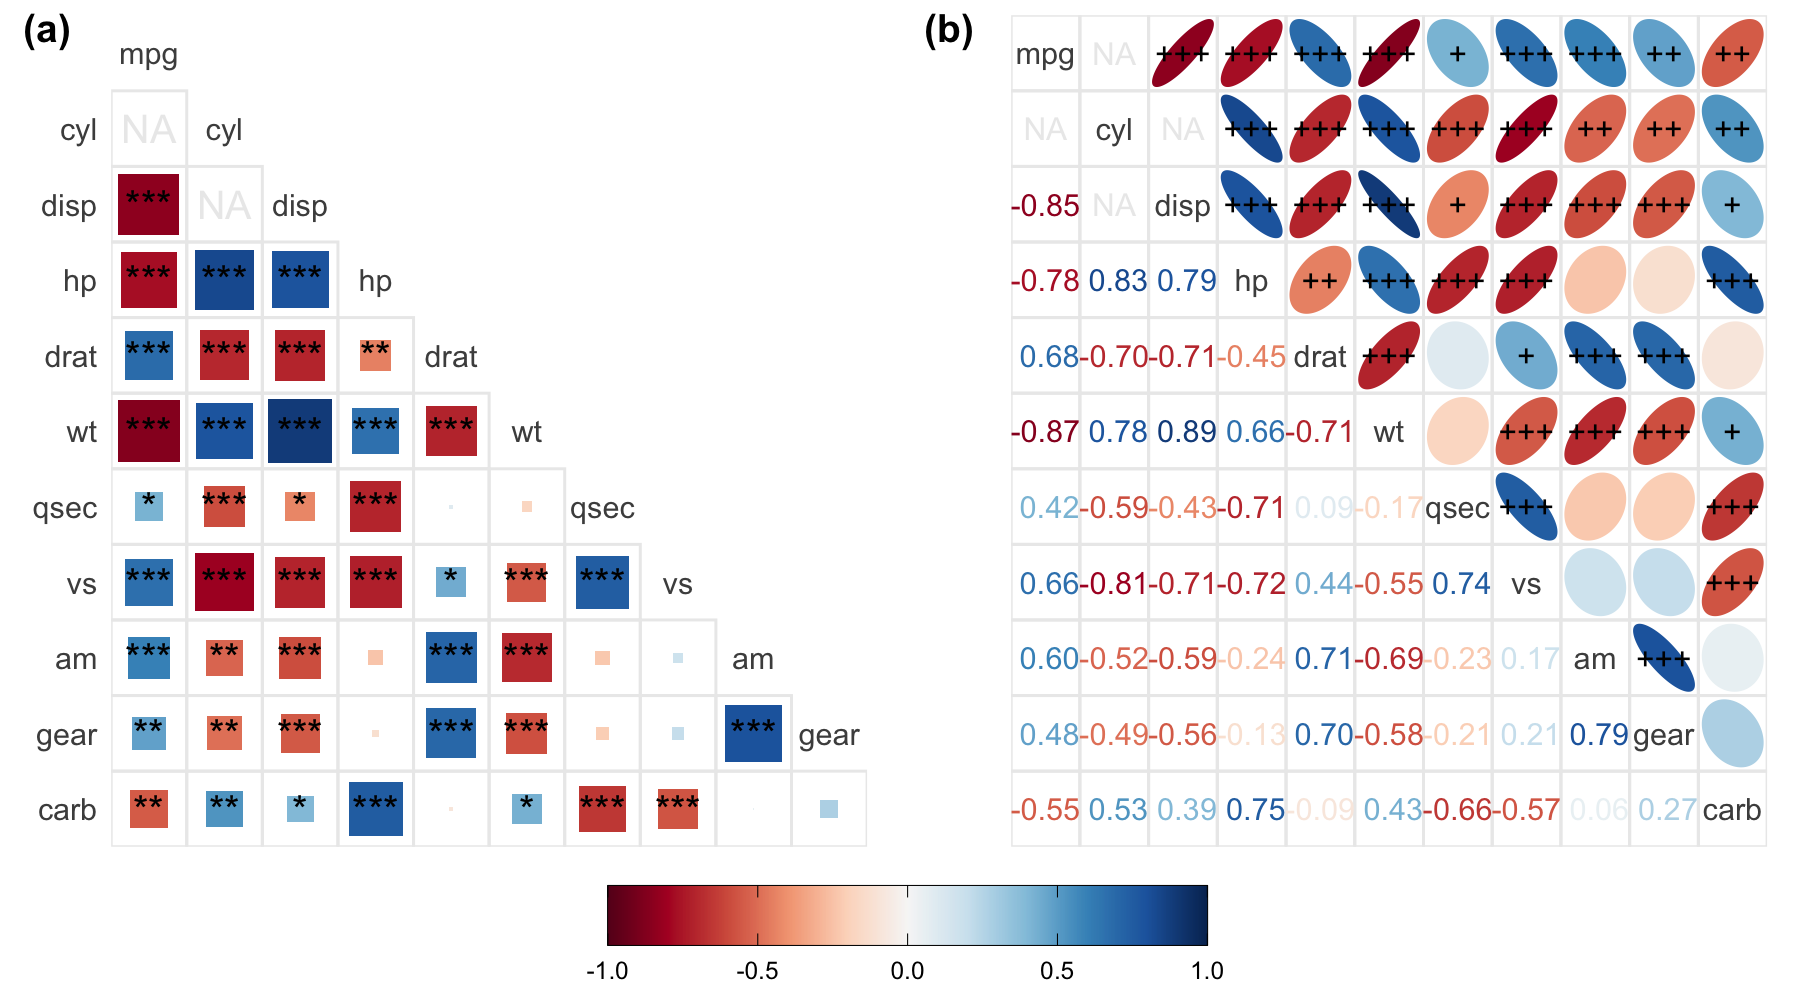
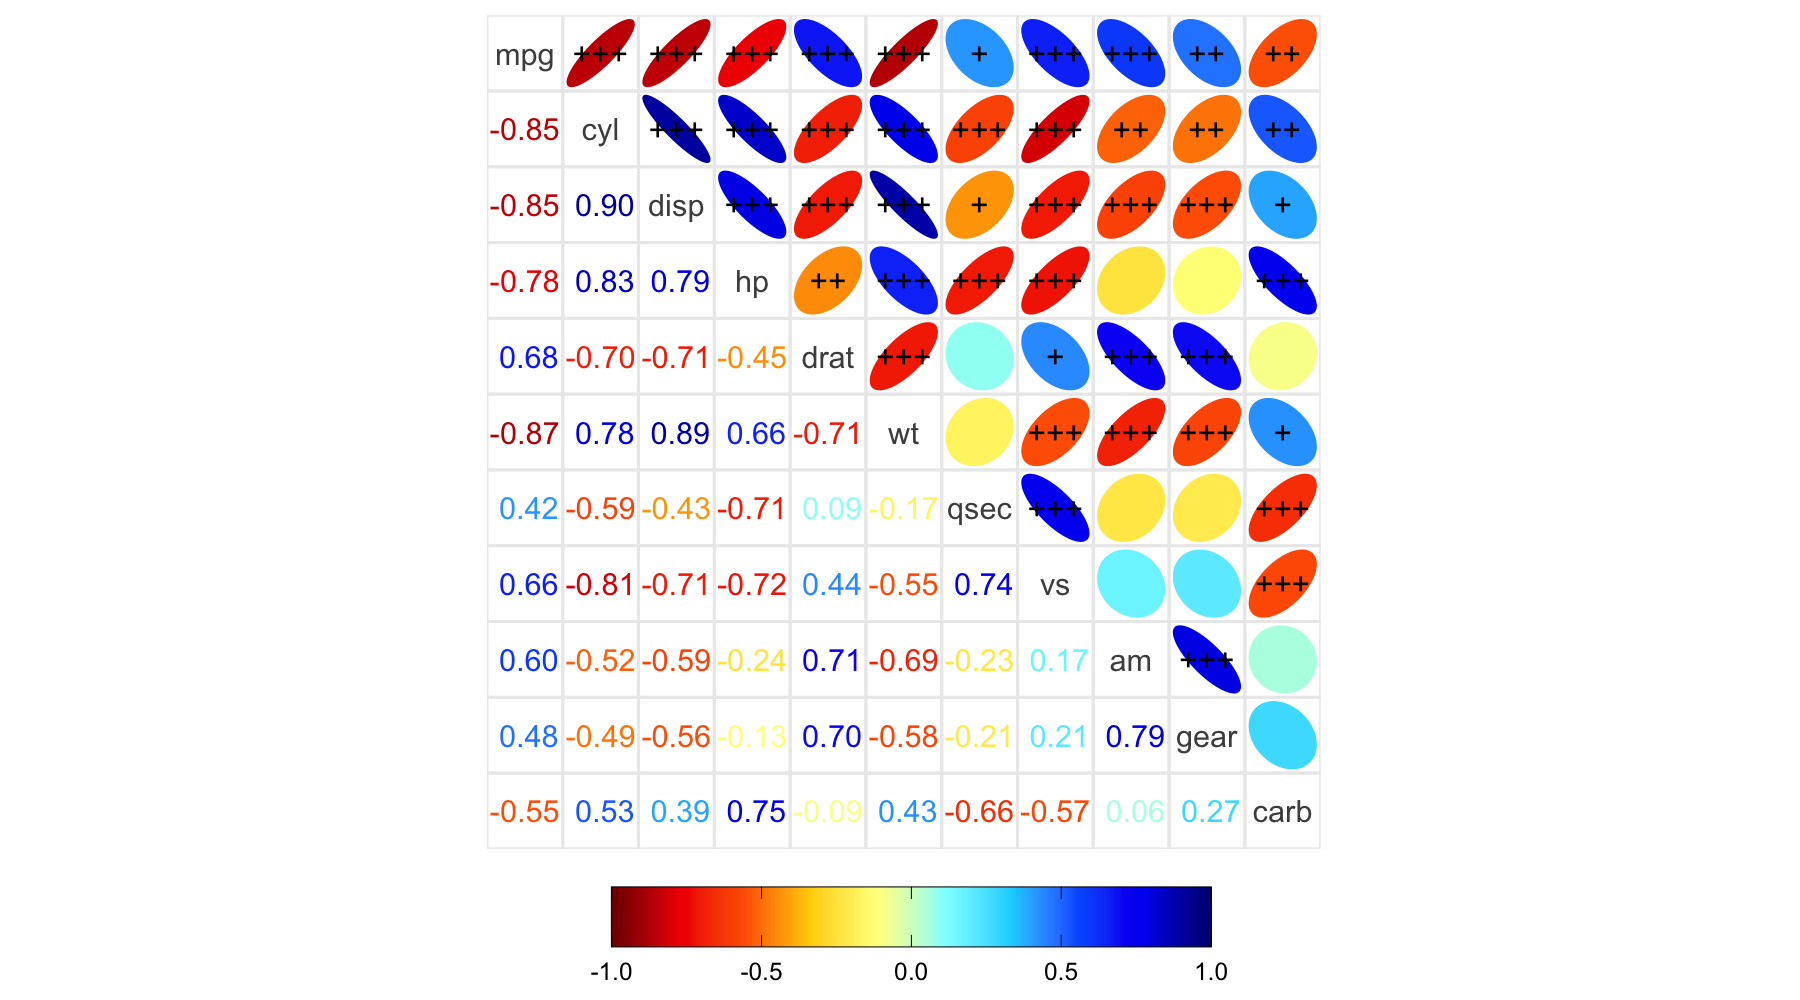
add demonstration of customizing appearance of corrplot

diff --git a/README.md b/README.md
@@ -143,9 +143,9 @@ ggcorrplot.mixed(corr, upper = "ellipse", lower = "number", p.mat = p.mat,
 
 ``` r
 # Label significant coefficients with varying number of + denoting the significance level
-ggcorrplot.mixed(corr, upper = "ellipse", lower = "number", p.mat = p.mat, 
+(p <- ggcorrplot.mixed(corr, upper = "ellipse", lower = "number", p.mat = p.mat, 
                  insig = "label_sig", sig.lvl = c(0.05, 0.01, 0.001), pch = "+", 
-                 pch.cex = 4)
+                 pch.cex = 4))
 ```
 
 ![](figs/README-unnamed-chunk-2-12.png)<!-- -->
@@ -165,6 +165,39 @@ pos <- cbind(rid, cid)
 corr[pos] <- NA
 p.mat[pos] <- NA
 
+# Customize the appearance of corrplot using functions from ggplot2
+library(ggplot2)
+# Use different color palette
+col1 <- colorRampPalette(c("#7F0000", "red", "#FF7F00", "yellow", "white",
+                           "cyan", "#007FFF", "blue", "#00007F"))
+# Change the colorbar direction to horizontal and place it at the bottom
+# As mixed methods are used, there are two scales: color filled in ellipse and 
+# number color
+p <- p + scale_fill_gradientn(colours = col1(10), limits = c(-1, 1),
+                                guide = guide_colorbar(
+                                  direction = "horizontal",
+                                  title = "",
+                                  nbin = 1000,
+                                  ticks.colour = "black",
+                                  frame.colour = "black",
+                                  barwidth = 15,
+                                  barheight = 1.5)) +
+  scale_colour_gradientn(colours = col1(10), limits = c(-1, 1),
+                       guide = guide_colorbar(
+                         direction = "horizontal",
+                         title = "",
+                         nbin = 1000,
+                         ticks.colour = "black",
+                         frame.colour = "black",
+                         barwidth = 15,
+                         barheight = 1.5)) +
+  theme(legend.position = "bottom")
+p
+```
+
+<img src="figs/README-unnamed-chunk-3-1.png" style="display: block; margin: auto;" />
+
+``` r
 # Combine a lower corrgram and a mixed corrgram side by side with a shared colorbar on the bottom
 # a lower corrgram
 p1 <- ggcorrplot(corr, type = "lower", method = "square", p.mat = p.mat, 
@@ -175,8 +208,8 @@ p2 <- ggcorrplot.mixed(corr, upper = "ellipse", lower = "number", p.mat = p.mat,
                        pch = "+", pch.cex = 4)
 
 library(cowplot)
-prow <- plot_grid(p1 + ggplot2::theme(legend.position = "none"),
-                  p2 + ggplot2::theme(legend.position = "none"),
+prow <- plot_grid(p1 + theme(legend.position = "none"),
+                  p2 + theme(legend.position = "none"),
                   rel_widths = c(1, 1), nrow = 1, align = 'hv',
                   labels = c("(a)", "(b)"), label_x = 0, label_y = 1)
 
@@ -187,7 +220,7 @@ p <- cowplot::plot_grid(prow, legend, ncol = 1, rel_heights  = c(1, 0.15))
 p
 ```
 
-<img src="figs/README-unnamed-chunk-3-1.png" style="display: block; margin: auto;" />
+<img src="figs/README-unnamed-chunk-3-2.png" style="display: block; margin: auto;" />
 
 ## Citation
 
